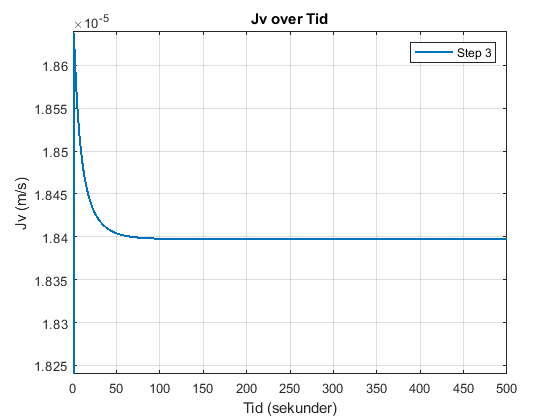
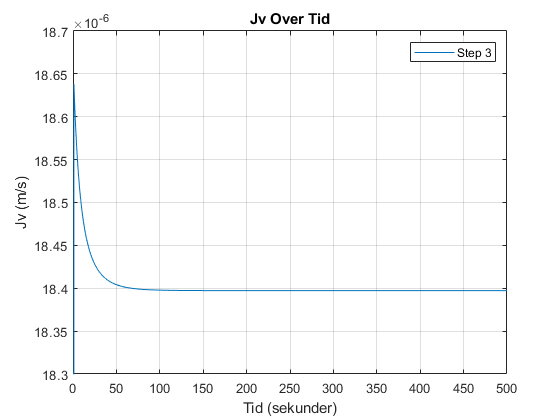
fixed figure

Changed region(s): [[0.0304, 0.031, 0.9107, 0.9286], [0.2125, 0.681, 0.9107, 0.7119]]

diff --git a/step2.m b/step2.m
@@ -6,7 +6,7 @@ clc
 domain_length = 0.1;   % Domain length (meters)
 domain_steps = 1000;    % Number of spatial domain_steps points
 dx = domain_length / (domain_steps - 1); % Position discretization
- 
+
 time_length = 500;      % Time length (seconds)
 time_steps = 500;       % Number of time steps
 dt = time_length / time_steps; % Temporal discretization
@@ -14,11 +14,11 @@ dt = time_length / time_steps; % Temporal discretization
 % DEFINED VARIABLES
 D = 0; % Diffusivity coefficient H2PO4- in water [m^2 s^-1]
 feed_conc = 0.1; % Constant solute concentration at the first cell 0.1 molar [H2PO4-]
-TMP = 35; %TMP: Transmembrane Pressure [bar]
+TMP = 15; %TMP: Transmembrane Pressure [bar]
 
 area = 0.001; % Area of the membrane surface [m^2]
 kw = 5.7311*10^(-7); % Initial water permeability m^3 m^-2 bar^-1 s^-1 
-my = 0.8903*10^-9; % Water viscosity [Bar∙s]
+my = 0.891*10^-9; % Water viscosity [Bar∙s]
 Rm = 1/(my*kw); % Rejection of water at the membrane (σ) [m^-1]
 InitP = 0.263253+0.0011; % Initial percipitation
 alpha = 95000000000; % Specific resistance of fouling [m mol m^3]
@@ -87,7 +87,7 @@ for j = 2:time_steps
         end
         % Apply the diffusion-advection-(electromigration) equation
         C(i, j) = C(i, j-1) + dt * (d2Cdx2 + dCdt_advection);
-        Jv_values2(j) = Jv; % Plot values
+        Jv_values(j) = Jv; % Plot values
         P_values(j) = Ptot;
         AS(j) = Jv * dt/dx; % Stability plot values
     end
@@ -96,8 +96,8 @@ end
 
 Systemdiff = [0, diff(sum(C,1))]; % Diffrence in systemsums
 
-inflow = Jv_values2*feed_conc*(dt/dx); % Inflow array
-outflow = C(domain_steps, :).* Jv_values2*(1-sig_m)*(dt/dx); % Outflow array 
+inflow = Jv_values*feed_conc*(dt/dx); % Inflow array
+outflow = C(domain_steps, :).* Jv_values*(1-sig_m)*(dt/dx); % Outflow array 
 
 ERROR = Systemdiff - inflow + outflow; % The mass conservation error
 
@@ -135,7 +135,7 @@ grid on;
 
 % Plot Jv values over time
 figure;
-plot(t, Jv_values2);
+plot(t, Jv_values);
 xlabel('Time (seconds)');
 ylabel('Jv (Velocity)');
 title('Jv (Velocity) Over Time');
@@ -175,22 +175,18 @@ hold off;
 [T, X] = meshgrid(t, x);
 figure;
 h = surf(X, T, C); % Transpose removed here
-xlabel('Position (meter)');
-ylabel('Tid (sekunder)');
-zlabel('Koncentration (M)');
-title('Koncentration Over Tid og Position');
+xlabel('Position (meters)');
+ylabel('Time (seconds)');
+zlabel('Concentration');
+title('Concentration Over Time and Position');
 
 % Set axis limits to start at the origin
 xlim([0, domain_length]);
 ylim([0, time_length]);
-zlim([0, 1.5]); % Assuming max(C(:)) is the maximum concentration in your data
+zlim([0, max(C(:))]); % Assuming max(C(:)) is the maximum concentration in your data
 
 set(h,'LineStyle','none')
-colormap(jet)
-clim([0 1.5])
-
-%%
-save('step2jv', 'Jv_values2')
+%colormap(jet)
 
 
 

diff --git a/step4.m b/step4.m
@@ -140,7 +140,10 @@ xlabel('Time (seconds)');
 ylabel('Jv (Velocity)');
 title('Jv (Velocity) Over Time');
 grid on;
-ylim([1.09*10^-6, 1.125*10^-6]);
+ylim([1.09*10^-6, 1.13*10^-6]);
+ax = gca;
+ax.YAxis.Exponent = -6;
+
 
 % Define fractions of time steps you want to visualize
 time_fraction = [0.001, 0.01, 0.1, 0.25, 0.5, 0.9];  % For example, 0.1 corresponds to 10% of time steps

diff --git a/step3.m b/step3.m
@@ -141,7 +141,9 @@ ylabel('Jv (Velocity)');
 title('Jv (Velocity) Over Time');
 grid on;
 xlim([0, 500]);
-%ylim([1.09*10^-6, 1.125*10^-6]);
+ylim([1.83*10^-5, 1.87*10^-5]);
+ax = gca;
+ax.YAxis.Exponent = -6;
 
 % Define fractions of time steps you want to visualize
 time_fraction = [0.001, 0.01, 0.1, 0.25, 0.5, 0.9];  % For example, 0.1 corresponds to 10% of time steps
